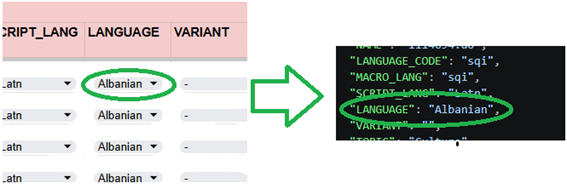
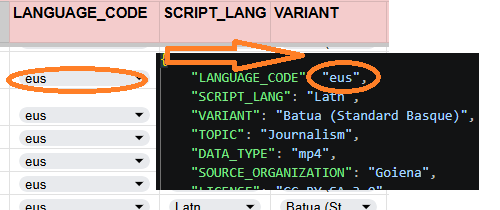
Update of readme and minor changes

diff --git a/src/non_web_oellm/validator.py b/src/non_web_oellm/validator.py
@@ -1,0 +1,97 @@
+import iso639
+import pycountry
+import re
+import validators
+from datetime import datetime
+
+TOPICS = ["Politics", "Economics", "Law", "Science", "Technology", "Medicine", "Education", "Culture", "Journalism", "Society", "History", "Religion", "Philosophy", "Psychology", "Sports", "Entertainment", "Sociology", "Business", "Environment", "Other", "Unknown", "Public Administration"]
+DATA_TYPES = ["aac", "m4a", "ogg", "wav", "pdf", "rtf", "mp4", "mp3", "txt", "html", "docx", "xlsx", "csv", "json", "xml", "doc"]
+LICENSES = ["explicit open license", "CC-BY-SA-3.0", "GPL-2.0-only", "CC-BY-NC-SA-4.0", "AGPL-3.0-only", "GFDL-1.3", "LGPL-2.0-only", "CC-BY-NC-SA-3.0", "unspecified", "LGPL-2.0-or-later", "CC-BY-4.0", "CC-BY-SA-4.0", "Apache-2.0", "CC-BY-NC-ND-4.0", "BSD-2-Clause-FreeBSD", "LGPL-3.0-only", "GPL-3.0-or-later", "CC-BY-2.5", "CC-BY-3.0", "CC-BY-NC-ND-3.0", "CC-BY-NC-4.0", "GPL-3.0-only", "CC-BY-NC-SA-2.0", "LGPL-3.0-or-later", "CC-BY-NC-3.0", "AGPL-1.0-or-later", "CC0 1.0", "CC-BY-SA-2.0", "BSD-3-Clause", "BSD-4-Clause", "GPL", "GNU General Public License v3.0 (GPL-3.0)", "GPL v3", "GPL - 2.0"]
+
+class Validation():
+    def __init__(self):
+        self.topics = TOPICS
+        self.data_types = DATA_TYPES
+        self.licenses = LICENSES
+
+    def validate_metadata(self, metadata):
+        validated_metadata = {
+            "LANGUAGE_CODE": self.validate_language_codes(metadata.get("LANGUAGE_CODE")),
+            "MACRO_LANG": self.create_macro_language(metadata.get("LANGUAGE_CODE")),
+            "SCRIPT_LANG": self.validate_script(metadata.get("SCRIPT_LANG")),
+            "LANGUAGE": self.create_language_name(metadata.get("LANGUAGE_CODE")),
+            "VARIANT": self.validate_free_text(metadata.get("VARIANT")),
+            "TOPIC": self.validate_topic(metadata.get("TOPIC")),
+            "DATA_TYPE": self.validate_data_type(metadata.get("DATA_TYPE")),
+            "SOURCE_ORGANIZATION": self.validate_free_text(metadata.get("SOURCE_ORGANIZATION")),
+            "LICENSE": self.validate_license(metadata.get("LICENSE")),
+            "DOWNLOAD_SOURCE": self.validate_url(metadata.get("DOWNLOAD_SOURCE")),
+            "MIXED_LANGUAGES": self.validate_mixed_languages(metadata.get("MIXED_LANGUAGES")),
+            "COMMENTARY": self.validate_free_text(metadata.get("COMMENTARY")),
+            "DATASET_NAME_OR_DESCRIPTION": self.validate_free_text(metadata.get("DATASET_NAME_OR_DESCRIPTION")),
+            "DATE_OF_IDENTIFICATION": self.validate_date(metadata.get("DATE_OF_IDENTIFICATION")),
+            "CONTACT": self.validate_free_text(metadata.get("CONTACT")),
+            "SOURCE_IDENTIFICATION_URL": self.validate_url(metadata.get("SOURCE_IDENTIFICATION_URL"))
+        }
+        errors = [key for key, value in validated_metadata.items() if value is False]
+        if errors:
+            return "errors occured in the following fields: " + ", ".join(errors)
+        return validated_metadata
+    
+    def validate_language_codes(self, lang_code):
+        try:
+            iso639.Language.from_part3(lang_code)
+            return lang_code
+        except:
+            return False
+    
+    def create_macro_language(self, lang_code):
+        try:
+            language = iso639.Language.from_part3(lang_code).macrolanguage
+            return language if language else lang_code
+        except:
+            return lang_code
+        
+    def validate_script(self, script_code):
+        if not isinstance(script_code, str):
+            return False
+        script =pycountry.scripts.get(alpha_4=script_code)
+        return script_code.lower() if script is not None else False
+    
+    def create_language_name(self, lang_code):
+        try:
+            language = iso639.Language.from_part3(lang_code)
+            return language.name
+        except:
+            return "not found"
+    
+    def validate_topic(self, topic):
+        return topic if topic in self.topics else False
+    
+    def validate_data_type(self, data_type):
+        return data_type if data_type in self.data_types else False
+    
+    def validate_license(self, license):
+        return license if license in self.licenses else False
+    
+    def validate_url(self, url):
+        validation = validators.url(url)
+        return url if validation else False
+    
+    def validate_mixed_languages(self, mixed_langs):
+        if not isinstance(mixed_langs, list):
+            return False
+        for lang in mixed_langs:
+            if not self.validate_language_codes(lang):
+                return False
+        return mixed_langs
+    
+    def validate_date(self, date_str):
+        try:
+            datetime.strptime(date_str, "%d/%m/%Y")
+            return date_str
+        except (ValueError, TypeError):
+            return False
+    
+    def validate_free_text(self, text):
+        return text if isinstance(text, str) else False

diff --git a/README.md b/README.md
@@ -15,13 +15,14 @@ This guide will be growing as we complete a first cycle through all the steps.
 
 <h2>1. Locating data sources</h2>
 
-<h3>1.0 Basic information</h3>
+<h3>1.1 Basic information</h3>
 
 We are looking for websites containing sets of files with relevant linguistic data in any format (pdf, docx, txt, mp3, mp4, etc.) with an explicit open license. 
 
 We do not want the text present on the web page itself, like HTML or similar, but downloadable documents whose text is not visible using web browsers. The web content (HTML) is supposed to be already gathered in web datasets.
 
-<h3>1.1 Picking a language</h3>
+<h3>1.2 Picking a language</h3>
+
 We will look for sources in particular languages. The languages of interest are defined in the following [file](https://github.com/OpenEuroLLM/training-data-catalogue/blob/main/languages).
 
 Languages with less resources sould be prioritized. A hint for picking your next language could be the following ranking showing the biggest web dataset available for the languages of interest, leaving out English, Italian, French, German, Portuguese and Spanish: 
@@ -70,19 +71,140 @@ The tiers correspond to the following token availability ranges: very low (<10BT
 
 
 
-<h3>1.2 Recording resources in the shared Google sheets</h3>
+<h3>1.3 Recording resources in the shared Google sheets</h3>
 
 We share a [Google sheets](https://docs.google.com/spreadsheets/d/1ERMeyCK1gKepeToE2TkwSuv_xYyQbggwaCYIIp3k-Y0/edit?gid=0#gid=0) document where we need to add every data source and its relevant or helpful information. Some of the information has pre-defined dropdown lists. Increasing the options in these lists is possible, but please check carefully if no other preexistent suitable (or near suitable) option is available.
 
-There are also columns without predefined options that need a specific format:
+Columns in red will be used as part of the metadata for each file uploaded to the database. Columns marked in grey correspond to useful or additional information, but these columns will not be included in the final metadata.
 
-- In DATE_OF_IDENTIFICATION it must be used the DD/MM/YYYY format.
 
-- In the DOWNLOAD_SOURCE column, it is better to use the URLs where the actual data is linked instead of the home page. For example, we would save the following URLs in this website: https://www.argia.eus/multimedia/podcastak and https://www.argia.eus/multimedia instead of just https://www.argia.eus/. This will make the next step much easier. Multiple URLs separated by a line break can be saved in the same cell.
+<h4>1.3.1 Metadata columns</h4>
 
-- In MIXED_LANGUAGES, the languages must be separated by a comma (,), always written in the same form as in the LANGUAGE column, or as written before in any column if this language is not present in the LANGUAGE column.
+- **LANGUAGE_CODE**: ISO 639 3 letter language code.
 
-<h3>1.3.    Tips on how to find relevant data </h3>
+- **SCRIPT_LANG**: ISO 15924 4 letter script system code.
+
+- **LANGUAGE**: closed name list of languages.
+
+- **VARIANT**: (expandable) custom list of variants.
+
+- **TOPIC**: close list of topics.
+
+- **DATASET_NAME_OR_DESCRIPTION**: name that describe the file collection.
+
+- **DATE_OF_IDENTIFICATION**: approximate date of identification or the start of the final URL extraction. It must be used the DD/MM/YYYY format.
+
+- **LICENSE**: (expandable) list of licenses.
+
+- **SOURCE_ORGANIZATION**: organization or company providing the desired files.
+
+- **DATA_TYPE**: (expandable) list of file formats.
+
+- **SOURCE_IDENTIFICATION_URL**: it is important to add only one URL. This must describe the general start point for the by document URL extraction. Therefore, it is better to use the URL closest to the document set, especially if it is necessary to navigate through sections or subsections.
+
+- **COMMENTARY**: free text to explain relevant data to have into account in the metadata. NOT MANDATORY.
+
+- **MIXED_LANGUAGES**: list of co-present languages in the files. These must be separated by a comma (,), always written in the same form as in the LANGUAGE column, or as written before in any column if this language is not present in the LANGUAGE column.
+
+- **CONTACT**: if it is needed it is possible to add a contact email. NOT MANDATORY.
+
+<h4>1.3.2 Non metadata columns</h4>
+
+- **Uploaded to the database**: only mark "yes" if all the files in the URL are properly validated and uploaded to the database.
+
+- **Size (Token, Docs, GB)**: it can be used to indicate the aproximately size of the desired documents. It might be helpful to know that all the documents have been extracted in the second step.
+
+- **relevant urls**: here it is useful to add the URLs of the sections where the actual data is linked. For example, we would save the following URLs in this website: https://www.argia.eus/multimedia/podcastak and https://www.argia.eus/multimedia/videos instead of just https://www.argia.eus/. This will make the next step much easier. Multiple URLs separated by a line break can be saved in the same cell.
+
+- **Worth gathering?**: it is a three-level score used to summarize all the information observed or identified during the assessment, scraping, or usability issues. Files with poor linguistic quality or that are very difficult to extract may not be a priority if they slow down the process. This can be represented by this score.
+
+- **Presence of anti-robot**: mark it if the presence of anti-robots is observed, like Google recaptcha or Cloudflare bot management.
+
+- **in OpenEuroLLM Catalogue?**: present or not.
+
+- **dentified by**: use always the same name, with your organization in parentheses.
+
+- **legal comments**: free text to explain possible legal issues.
+
+- **risk scale**: this is a score to summarize the legal problems into a risk scale.
+
+
+
+
+<h2>2.	Extracting final URLs</h2>
+<h3>2.1.	Basic information</h3>
+
+After gathering data sources, it is needed to extract all URLs where every single file is placed.
+
+The first step in this process is to identify the structure of the data on the website. Then, for each document, it is necessary to assemble a JSON file with metadata as in this example:
+
+```
+{
+    "LANGUAGE_CODE": "eus", 
+    "SCRIPT_LANG": "Latn", 
+    "VARIANT": "Batua (Standard Basque)", 
+    "TOPIC": "Culture", 
+    "DATA_TYPE": "pdf", 
+    "SOURCE_ORGANIZATION": "Euskariana", 
+    "LICENSE": "CC-BY-NC-SA-4.0", 
+    "DOWNLOAD_SOURCE": "https://www.euskariana.euskadi.eus/euskadibib/es/media/group/1557223.do", 
+    "MIXED_LANGUAGES": ["Spanish", "French"], 
+    "COMMENTARY": "", 
+    "DATASET_NAME_OR_DESCRIPTION": "Euskariana", 
+    "DATE_OF_IDENTIFICATION": "31/01/2026",
+    "CONTACT": "",
+    "SOURCE_IDENTIFICATION_URL": "https://www.euskariana.euskadi.eus/euskadibib/es/content/sections.do"
+}
+```
+There is one column that need to be created specifically for this JSONL file:
+
+- **DOWNLOAD_SOURCE**: is used to store the complete and final URL of the file. This must be a direct access or direct download link. If there is any relevant issue for the download step, this can be explained in the _COMMENTARY_ section. In the download step, if the file contains multiple files inside, like in a ZIP or RAR, the _DOWNLOAD_SOURCE_ value must be the URL of the compressed file. The file will be automatically uncompressed, and every document inside will have its own metadata based on the JSONL entry.
+
+Lastly, the validation and download process will create automatically more data fields:
+
+- **MACRO_LANG**: the macro code for the ISO 639 provided by the _iso639-lang_ Python package.
+
+- **LANGUAGE**: the language name used by the _iso639-lang_ Python package.
+
+- **PATH**: a combintation of _LANGUAGE_CODE_ + _DOWNLOAD_SOURCE_ without the document name. This will be the location in the database of the file. The intention is to mirror the original location of the documents.
+
+- **NAME**: it corresponds to the file name, including its extension. The extension may change due to post-processing used to prevent database overload. For example, video files are converted to MP3 documents and WAV files are also converted to MP3 documents.
+
+The rest of the metadata is derived from the corresponding rows of the Google sheet document.
+
+![image](images/imagen1.png)
+
+To extract the data from the Google sheets document the codes in [this notebook](notebooks/get_data_from_Google_sheets.ipynb) can be used or simply copy-paste from the row of interest.
+
+<h3>2.2.	Extracting the final URLs</h3>
+
+There are several strategies that can be used to extract the final files and theis URLs. To assist with this process, we have provided examples of some real websites, we have completed for the Basque language in section 7.
+
+
+<h2>4.	Uploading the JSONL files to the server</h2>
+
+<h3>4.1.	Validation</h3>
+
+
+TBC
+
+<h2>5. Automatic downloading of the files to a cluster</h2>
+TBC
+
+<h2>6. Automatic processing of the files</h2>
+
+TBC
+
+
+
+
+
+
+
+
+<h2>7. Recommendations and examples</h2>
+
+<h3>7.1.    Tips on how to find relevant data </h3>
 
 First, it is recommended to search for government or regional official websites, institutions, ministries or publicly funded associations, looking for sections named “publications” or similar. These public websites used to cite other websites they fund or with which they collaborate. 
 
@@ -92,49 +214,11 @@ After that, is may be worth searching for annual reports of banks, big companies
 
 Besides this, the [CC](https://search.creativecommons.org/) search portal may be good to find other types of permissively licensed data. A good idea is to use random words from different topics plus the required format in quotes, for example, ‘gardening “pdf”’ or ‘sports “mp3”’. Looking for radios, televisions or podcasts in this CC searcher is also a good idea to find archived recorded programs.
 
-<h2>2.	Extracting file URLs</h2>
-<h3>2.0.	Basic information</h3>
-
-After gathering data sources, it is needed to extract all URLs where every single file is placed.
-
-The first step in this process is to identify the structure of the data on the website. Then, for each document, it is necessary to assemble a JSON file with metadata as in this example:
-
-```
-{
-    "PATH": "eus/www.euskariana.euskadi.eus/euskadibib/es/media/group",
-    "NAME": "1557223.do", 
-    "LANGUAGE_CODE": "eus", 
-    "MACRO_LANG": "eus", 
-    "SCRIPT_LANG": "Latn", 
-    "LANGUAGE": "Basque", 
-    "VARIANT": "Batua (Standard Basque)", 
-    "TOPIC": "Culture", 
-    "DATA_TYPE": "pdf", 
-    "SOURCE_ORGANIZATION": "Euskariana", 
-    "LICENSE": "CC-BY-NC-SA-4.0", 
-    "DOWNLOAD_SOURCE": "https://www.euskariana.euskadi.eus/euskadibib/es/media/group/1557223.do", 
-    "MIXED_LANGUAGES": [“Spanish”, “French”], 
-    "COMMENTARY": “”, 
-    "DATASET_NAME_OR_DESCRIPTION": "Euskariana", "DATE_OF_IDENTIFICATION": "31/01/2026",
-    "CONTACT”: "”
-}
-```
-
-_PATH_ is a combintation of _LANGUAGE_CODE_ + url without the document name. The intention is to mirror the original location of the documents. To create the path the [path.py](src/non_web_oellm/metadata/path.py) script must be used. The "url" parameter correspond to the final URL where the file is downloaded, "base_path" should be the base path in the computer used to download the file + the language code.
-
-_NAME_ corresponds to the file name with extension. The _NAME_ value and the file name must always be the same. This attribute will also be kept empty and filled after the download.
-
-_DOWNLOAD_SOURCE_ is used to store the complete and final URL of the file. This must be a direct access or direct download link. If there is any relevant issue for the download step, this can be explained in the _COMMENTARY_ section. In the download step, if the file contains multiple files inside, like in a ZIP or RAR, the _DOWNLOAD_SOURCE_ value must be the URL of the compressed file. The file must be uncompressed, and every document inside must have its own JSON metadata.
-
-The rest of the metadata is derived from the corresponding rows of the Google sheet document.
-
-![image](images/imagen1.png)
-
-<h3>2.1.	Extracting the final URLs</h3>
+<h3>7.2.    Tips on how to extract final URLS</h3>
 
 Generally, in the data sources found, there are a few types of data structures:
 
-<h4>2.2.1 All the desired links are easily collectable from a single webpage</h4>
+<h4>7.2.1 All the desired links are easily collectable from a single webpage</h4>
 
 In this cases, if pagination is not very long, links can be collected by inspecting the page manually and copying the element that contains them:
 
@@ -159,7 +243,7 @@ In these cases you need to make sure that the number of pages is consistent, oth
 
 Another usefull way to visit all the needed pages is to extract always the ">" button, until it is not present. This would need some changes in the [script](notebooks/all_files_in_box_with_pagination.ipynb).
 
-<h4>2.2.2 An ad hoc crawler/method is needed</h4>
+<h4>7.2.2 An ad hoc crawler/method is needed</h4>
 
 Often, it is impossible to only copy and extract links. Some websites need to be analyzed before choosing a valid method. The different examples below show different problems already found and possible approaches to solve them:
 
@@ -195,17 +279,3 @@ In similar cases, scraping the whole page and saving the intermediate links in a
 ![image](images/Imagen11.png)
 
 Then, one can visit them to extract the links behind the "PDF" button. Be careful and avoid visiting them all at the same time, because you can overload the server and be banned.
-
-<h2>3.	Downloading the files</h2>
-
-TBC
-
-<h2>4.	Uploading the files to the server</h2>
-
-TBC
-
-<h2>5. Downloading the files to a cluster</h2>
-TBC
-<h2>6. Processing the files</h2>
-
-TBC
